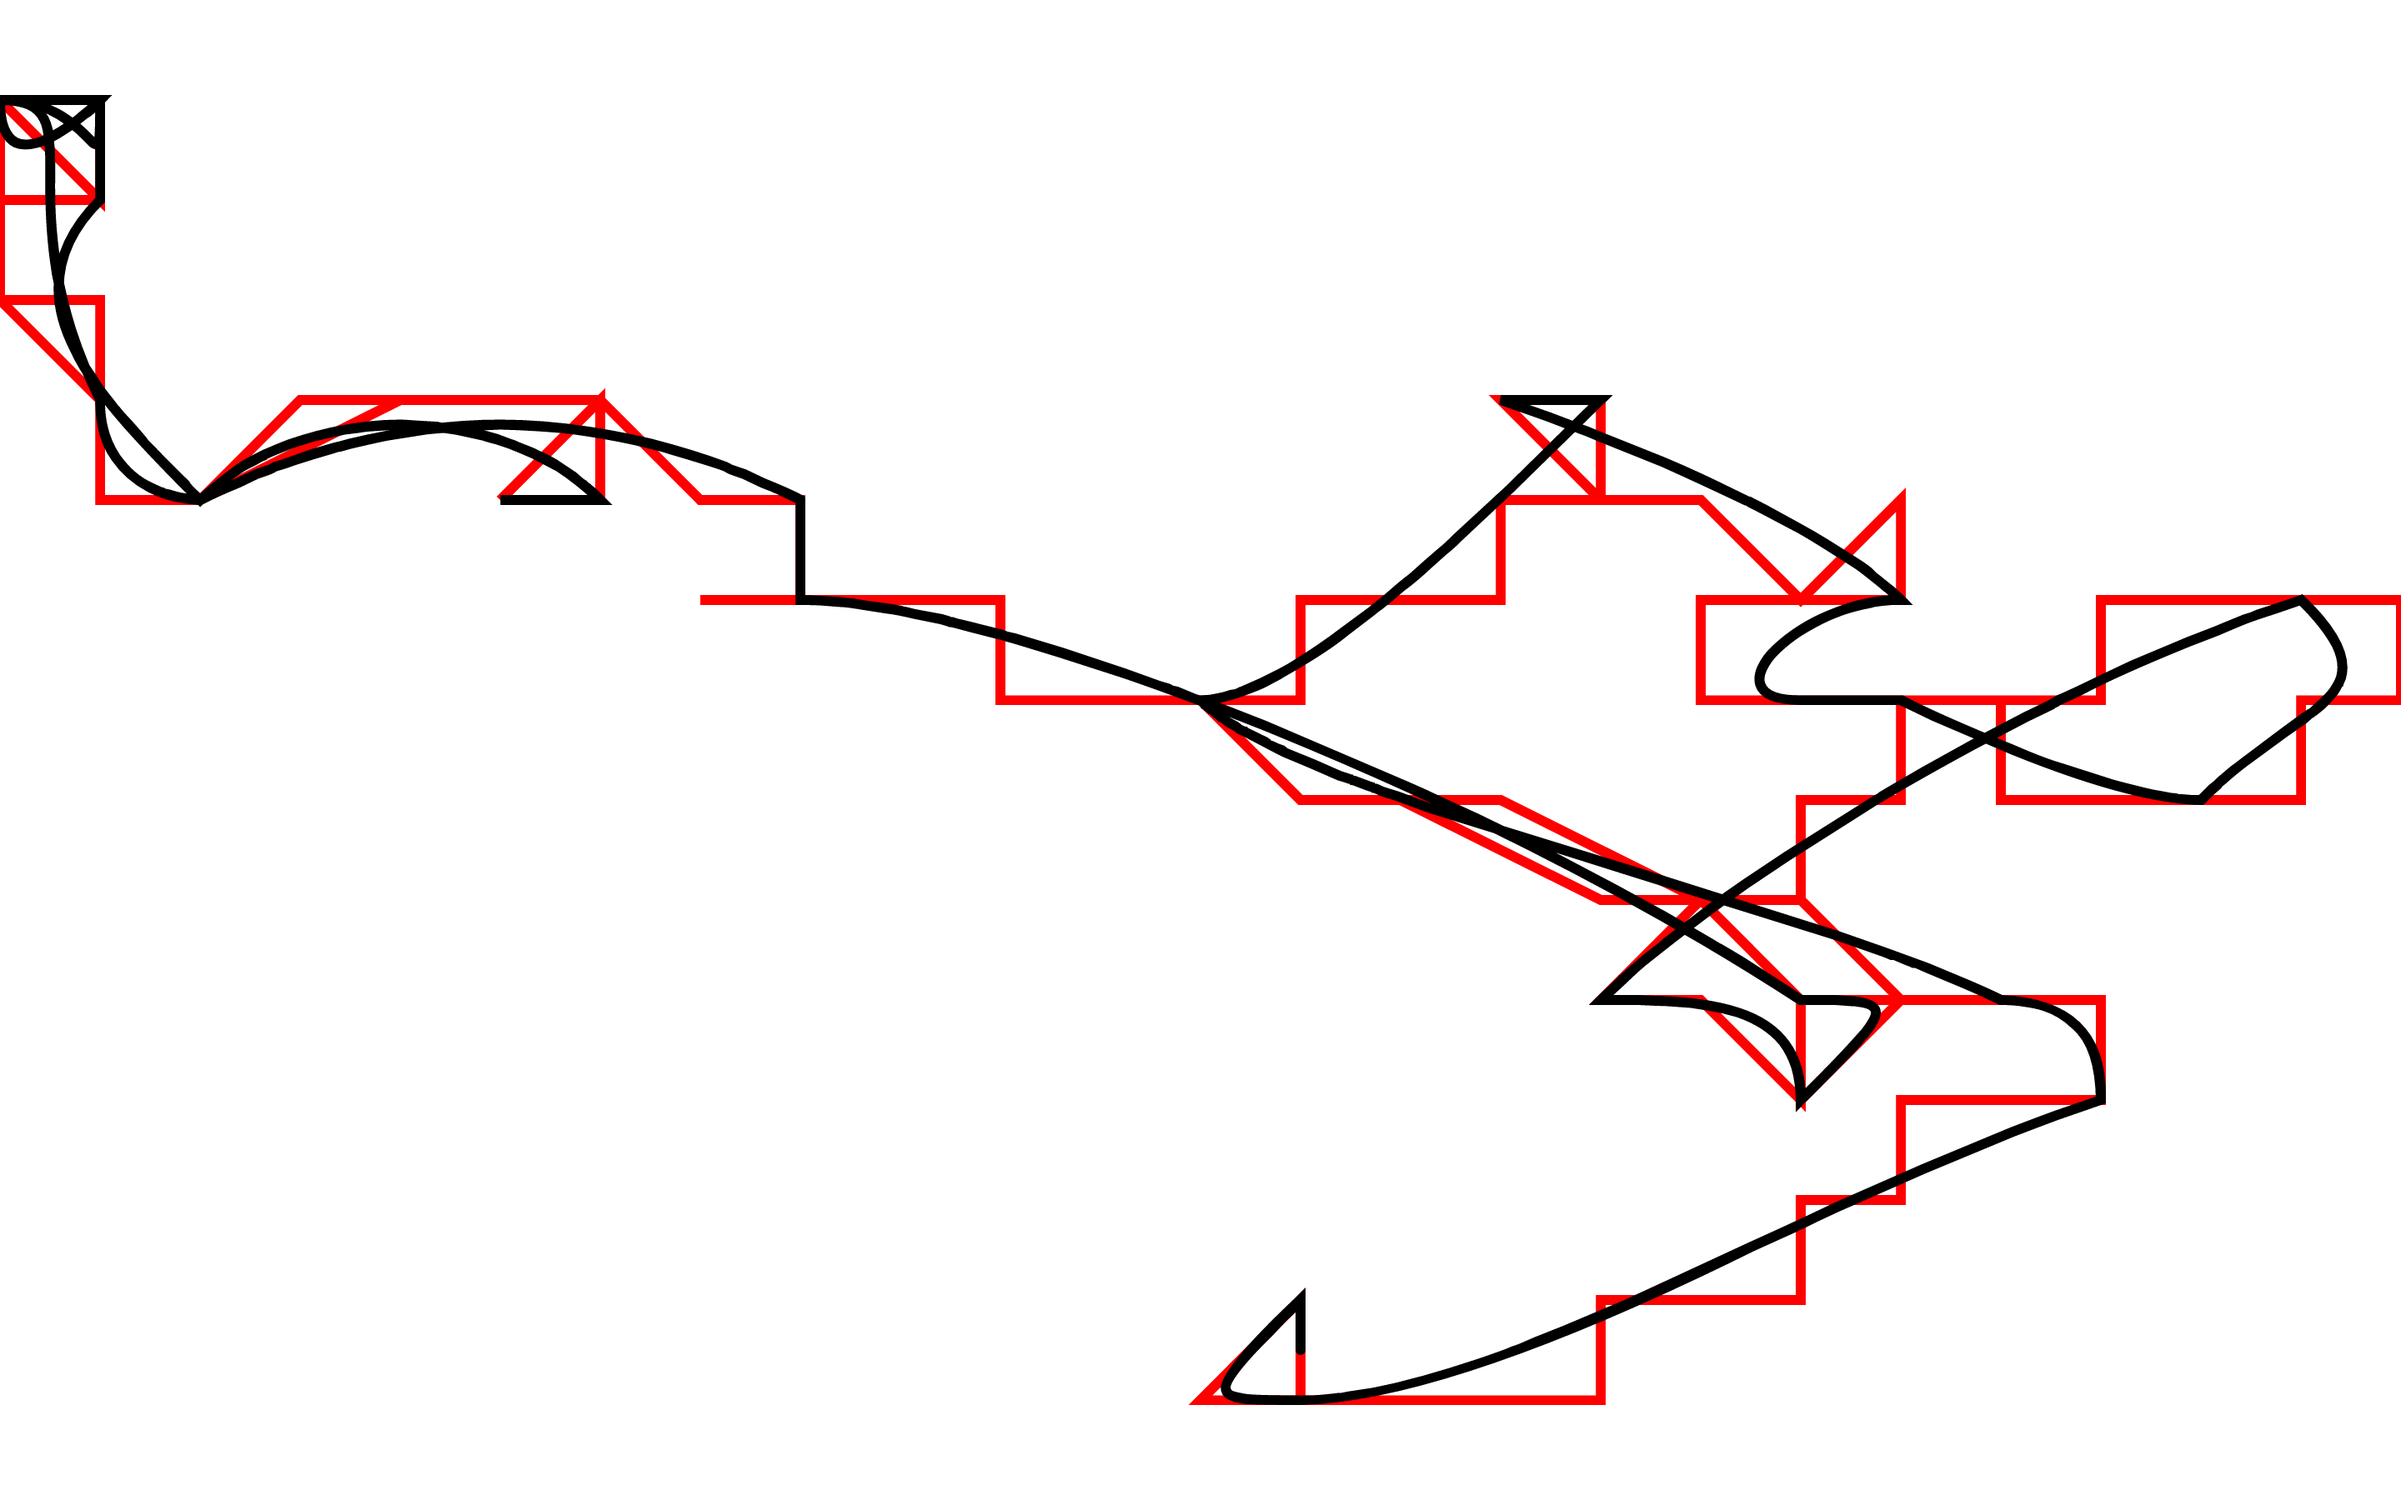
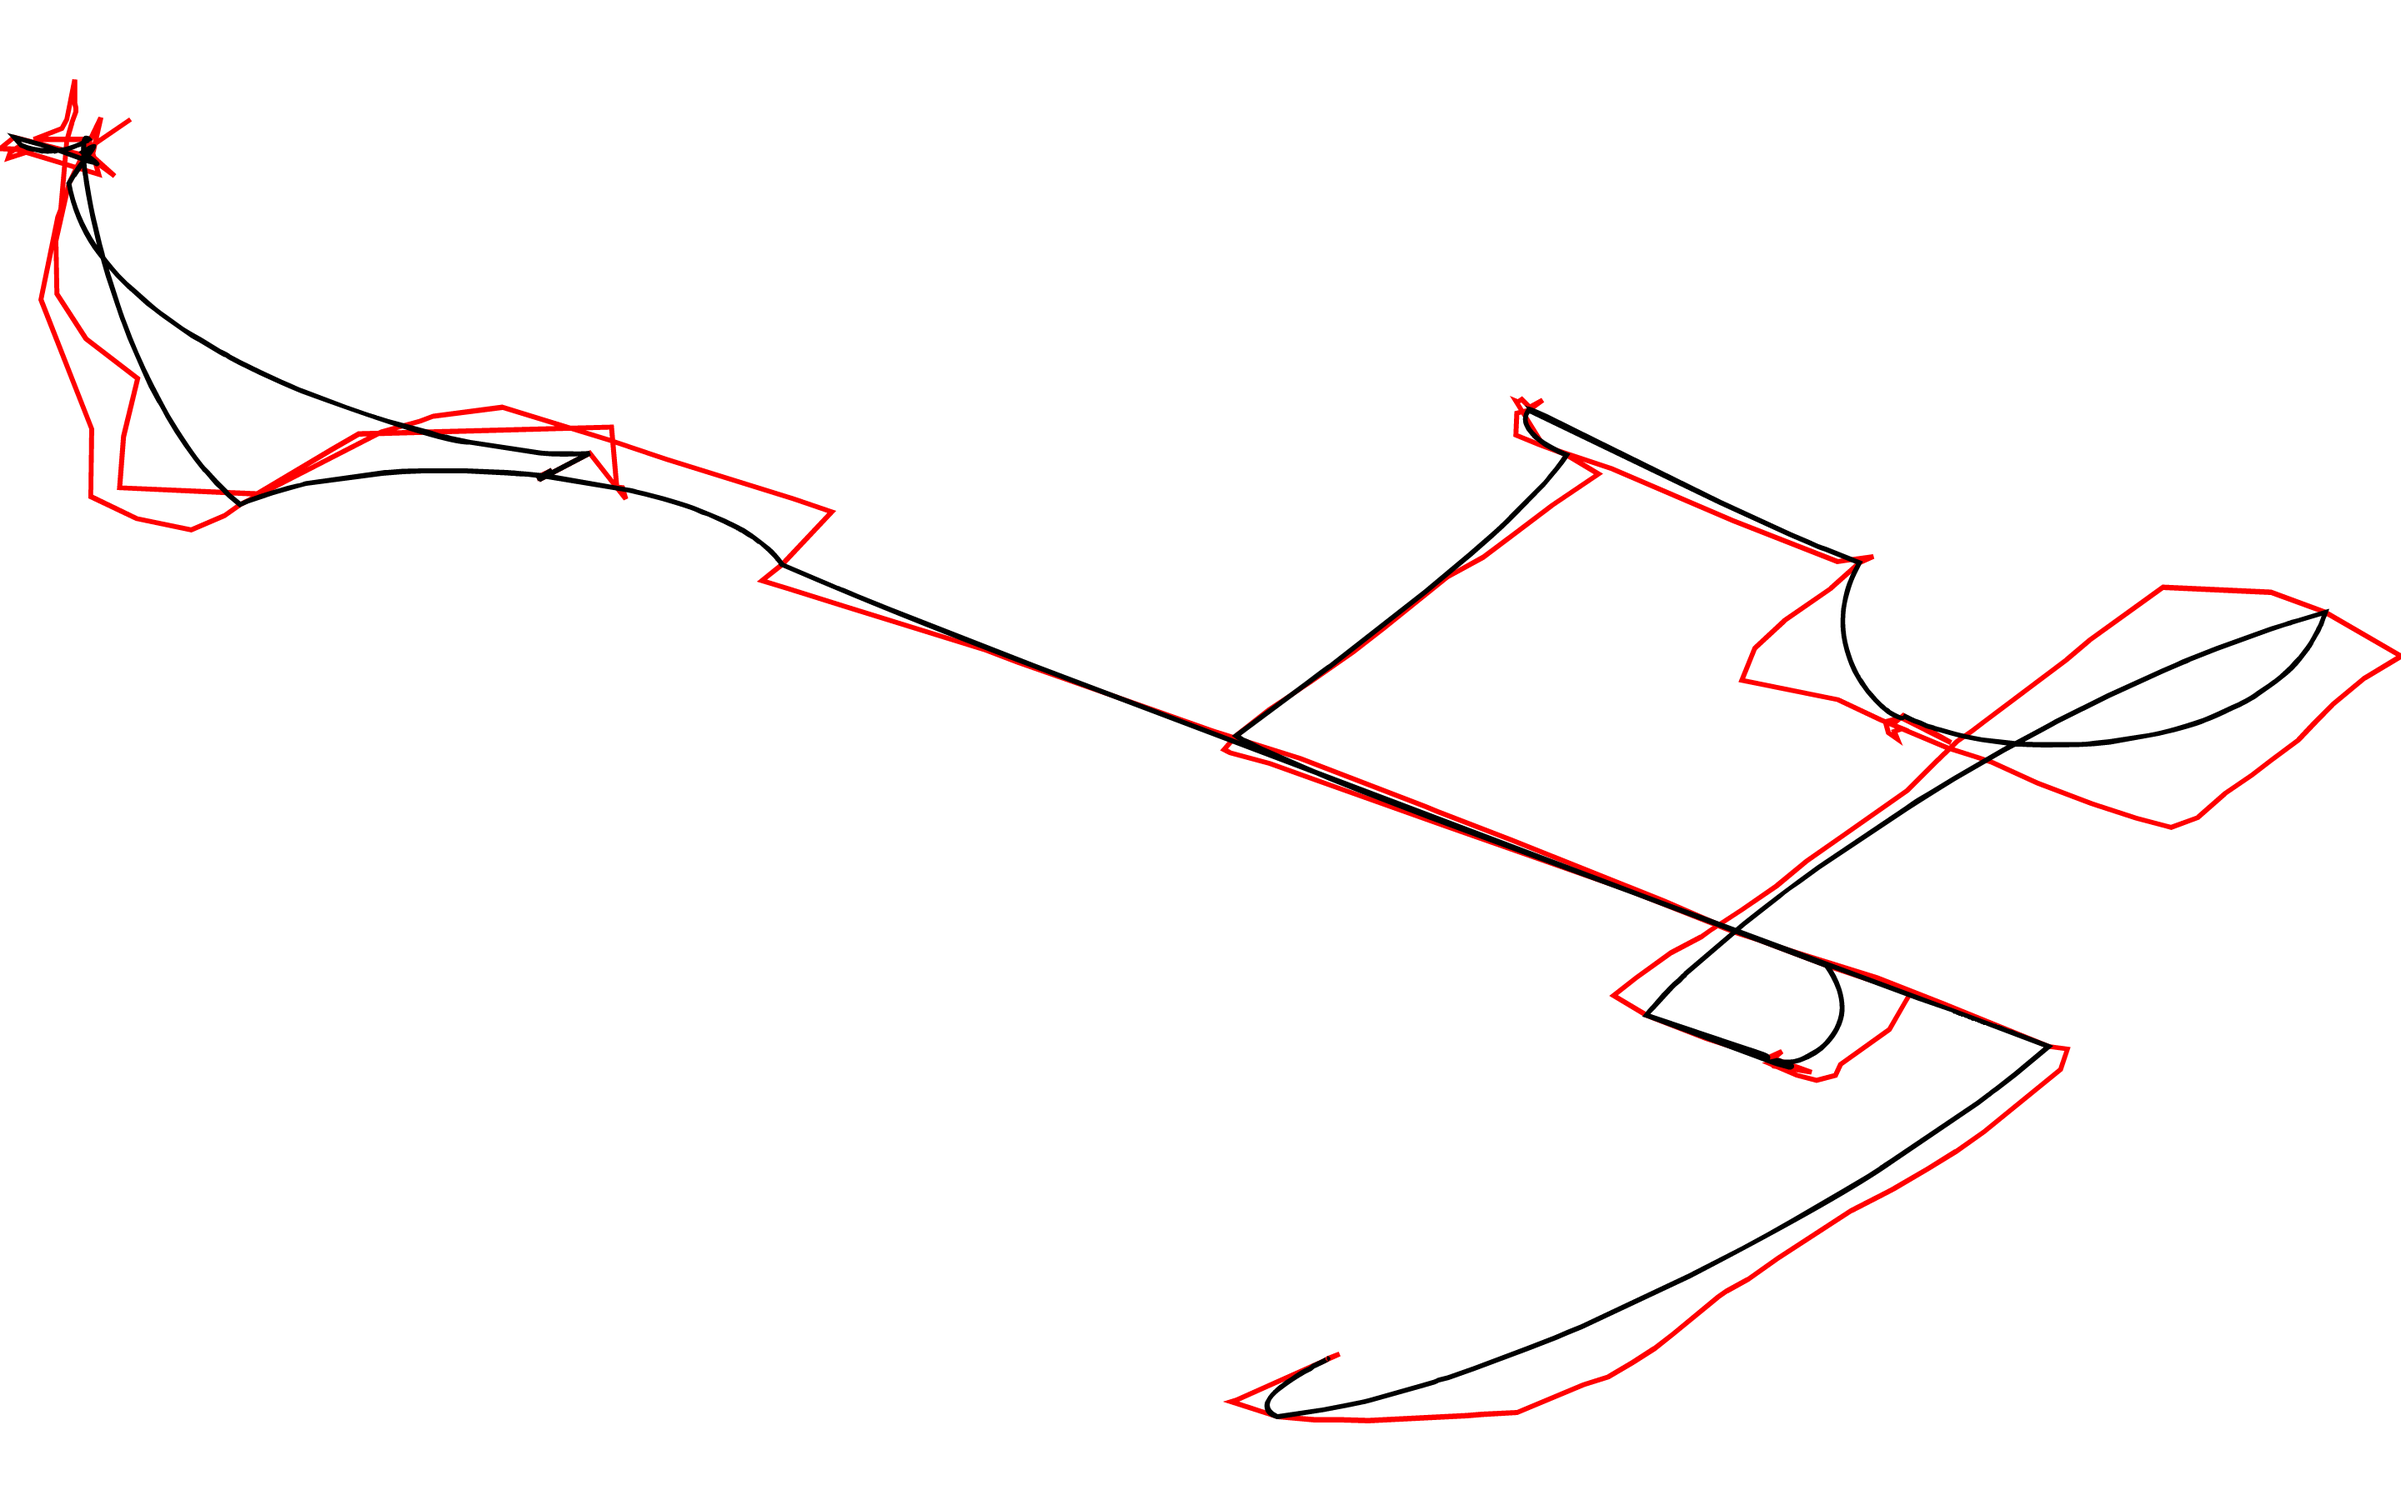
Adjusted bezier FN to compare simplify using a more complex ratio of segment length and delta angle

Changed region(s): [[0.0, 0.0622, 1.0, 0.9644]]

diff --git a/src/location.js b/src/location.js
@@ -308,10 +308,20 @@ function locationsToVectorPosition() {
     return locations;
 }
 
-var minSegmentDegrees = 0.0001; // ~11.06 meters
-var sqMinSegmentDegrees = Math.pow(minSegmentDegrees, 2);
-var radThreshold = 40 / 180 * Math.PI;
-var cumulativeRadThreshold = radThreshold * 6;
+var radianEdges = [
+    90 / 180 * Math.PI,
+    45 / 180 * Math.PI,
+];
+var deltaRadianEdges = radianEdges[1] - radianEdges[0];
+var cumulativeRadianMultiplier = 6;
+
+var distanceEdges = [
+    0.0001, // ~11.06 meters
+    0.01, // ~1105.74 meters
+];
+
+var sqMinSegmentDegrees = Math.pow(distanceEdges[0], 2);
+
 var drawOriginalPath = true;
 function locationStreamToBezier(points) {
     var i, point = null, skippedPoints = null;
@@ -322,6 +332,8 @@ function locationStreamToBezier(points) {
     var prevAnchor, prevPoint, anchors;
     var path = d3.path();
     var origPath = null;
+    var distanceMultiplier = null;
+    var radianThreshold = null, cumulativeRadianThreshold = null;
 
     if (points.lastAnchor) {
         prevAnchor = points.lastAnchor.coordinates;
@@ -349,15 +361,19 @@ function locationStreamToBezier(points) {
 
         if (!anchorRequired) {
             sqAnchorDistance = getSqDist(point, prevAnchor);
+            distanceMultiplier = Math.max(sqAnchorDistance - distanceEdges[0], distanceEdges[0]) / distanceEdges[1];
+            radianThreshold = radianEdges[0] + deltaRadianEdges * distanceMultiplier;
+            cumulativeRadianThreshold = cumulativeRadianMultiplier * radianThreshold;
+
             anchorTangent = Math.abs(Math.atan2(point[1] - prevAnchor[1], point[0] - prevAnchor[0]));
             pointTangent = Math.abs(Math.atan2(point[1] - prevPoint[1], point[0] - prevPoint[0]));
             deltaT = Math.abs(anchorTangent - pointTangent);
             cumulativeDeltaT += deltaT;
 
-            if (deltaT > radThreshold && sqAnchorDistance > sqMinSegmentDegrees) {
+            if (deltaT > radianThreshold && sqAnchorDistance > sqMinSegmentDegrees) {
                 // Delta angle exceeds minimum, draw an anchor.
                 anchorRequired = true;
-            } else if (cumulativeDeltaT > cumulativeRadThreshold && sqAnchorDistance > sqMinSegmentDegrees) {
+            } else if (cumulativeDeltaT > cumulativeRadianThreshold && sqAnchorDistance > sqMinSegmentDegrees) {
                 // Cumulative delta angle exceeds minimum, draw an anchor.
                 anchorRequired = true;
             }
@@ -423,8 +439,8 @@ function locationStreamToBezier(points) {
     return {
         anchors: anchors,
         bounds: locationsToVectorPosition([minX, minY], [maxX, maxY]),
-        origPath: drawOriginalPath ? '<path d="' + origPath.toString() + '" fill="none" stroke="red" stroke-width="' + minSegmentDegrees + '" />' : null,
-        path: '<path d="' + path.toString() + '" fill="none" stroke="black" stroke-width="' + minSegmentDegrees + '" />'
+        origPath: drawOriginalPath ? '<path d="' + origPath.toString() + '" fill="none" stroke="red" stroke-width="' + distanceEdges[0]/2 + '" />' : null,
+        path: '<path d="' + path.toString() + '" fill="none" stroke="black" stroke-width="' + distanceEdges[0]/2 + '" />'
     };
 }
 

diff --git a/demoClient.js b/demoClient.js
@@ -5,7 +5,7 @@ var workerCenterLocation = [-122.441642 + (0.025 * Math.random()), 37.754688 + (
 var i, targetIdLen = 24, targetCount = 500;
 var targetIds = new Array(targetCount);
 for (i = 0; i < targetCount; i++) {
-    targetIds[i] = Array(targetIdLen+1).join((((i+1)/(targetCount*7)).toString(36)+'00000000000000000').slice(2, 18)).slice(0, targetIdLen)
+    targetIds[i] = Array(targetIdLen+1).join(((((i+1)*3)/(targetCount*7)).toString(36)+'00000000000000000').slice(2, 18)).slice(0, targetIdLen)
 }
 
 var decameter = 0.0001;
